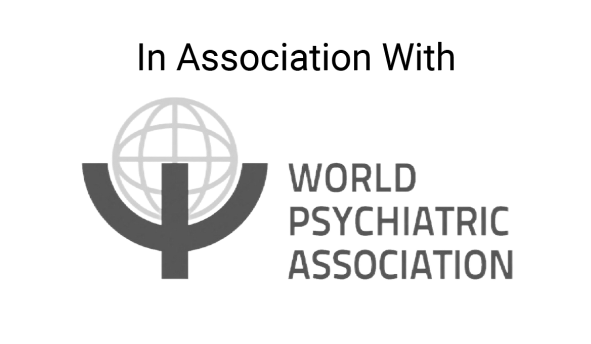
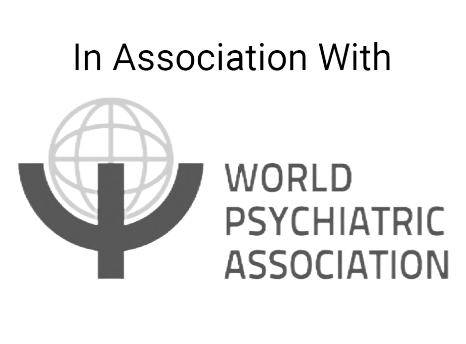
2 UI changes
- Association logo placement change

- Desktop = Footer PlayStore logo increase

diff --git a/index.html b/index.html
@@ -235,8 +235,11 @@
         #winnerImg #conference-section{
             align-items: center;
         }
+        #winnerImg #conference-section p{
+            margin-left: 0 !important;  
+        }
         #winnerImg div #psychiatric-association-logo{
-            width: 145px;
+            width: 120px;
             height: 85px;
         }
         #winnerMobile img{
@@ -412,7 +415,7 @@
             padding-bottom: 12px;
         }
         footer #store img{
-            height: 37px !important;
+            height: 41px !important;
         }
         a{
             text-decoration: none !important;
@@ -724,6 +727,9 @@
                 bottom: -26px;
                 left: 0;
             }
+            #winnerImg #conference-section p{
+                margin-right: 3px !important;  
+            }
             #winnerImg div #psychiatric-association-logo{
                 width: 55px;
                 height: 35px;
@@ -976,7 +982,7 @@
 
     <!-- class="carousel-fade" -->
     <!-- data-interval="5000" -->
-    <div id="carouselEkyammIndicators" class="carousel slide" style="z-index: 6;" data-ride="carousel" data-interval="4000">
+    <div id="carouselEkyammIndicators" class="carousel slide" style="z-index: 6;" data-ride="" data-interval="4000">
         <ol class="carousel-indicators" style="z-index: 11;">
           <li data-target="#carouselEkyammIndicators" data-slide-to="0" class="active"></li>
           <li data-target="#carouselEkyammIndicators" data-slide-to="1"></li>

diff --git a/privacy-policy.html b/privacy-policy.html
@@ -132,7 +132,7 @@
             padding-bottom: 12px;
         }
         footer #store img{
-            height: 37px !important;
+            height: 41px !important;
         }
         a{
             text-decoration: none !important;

diff --git a/request-account-delete-success.html b/request-account-delete-success.html
@@ -235,7 +235,7 @@
             padding-bottom: 12px;
         }
         footer #store img{
-            height: 37px !important;
+            height: 41px !important;
         }
         a{
             text-decoration: none !important;

diff --git a/request-account-delete.html b/request-account-delete.html
@@ -233,7 +233,7 @@
             padding-bottom: 12px;
         }
         footer #store img{
-            height: 37px !important;
+            height: 41px !important;
         }
         a{
             text-decoration: none !important;
